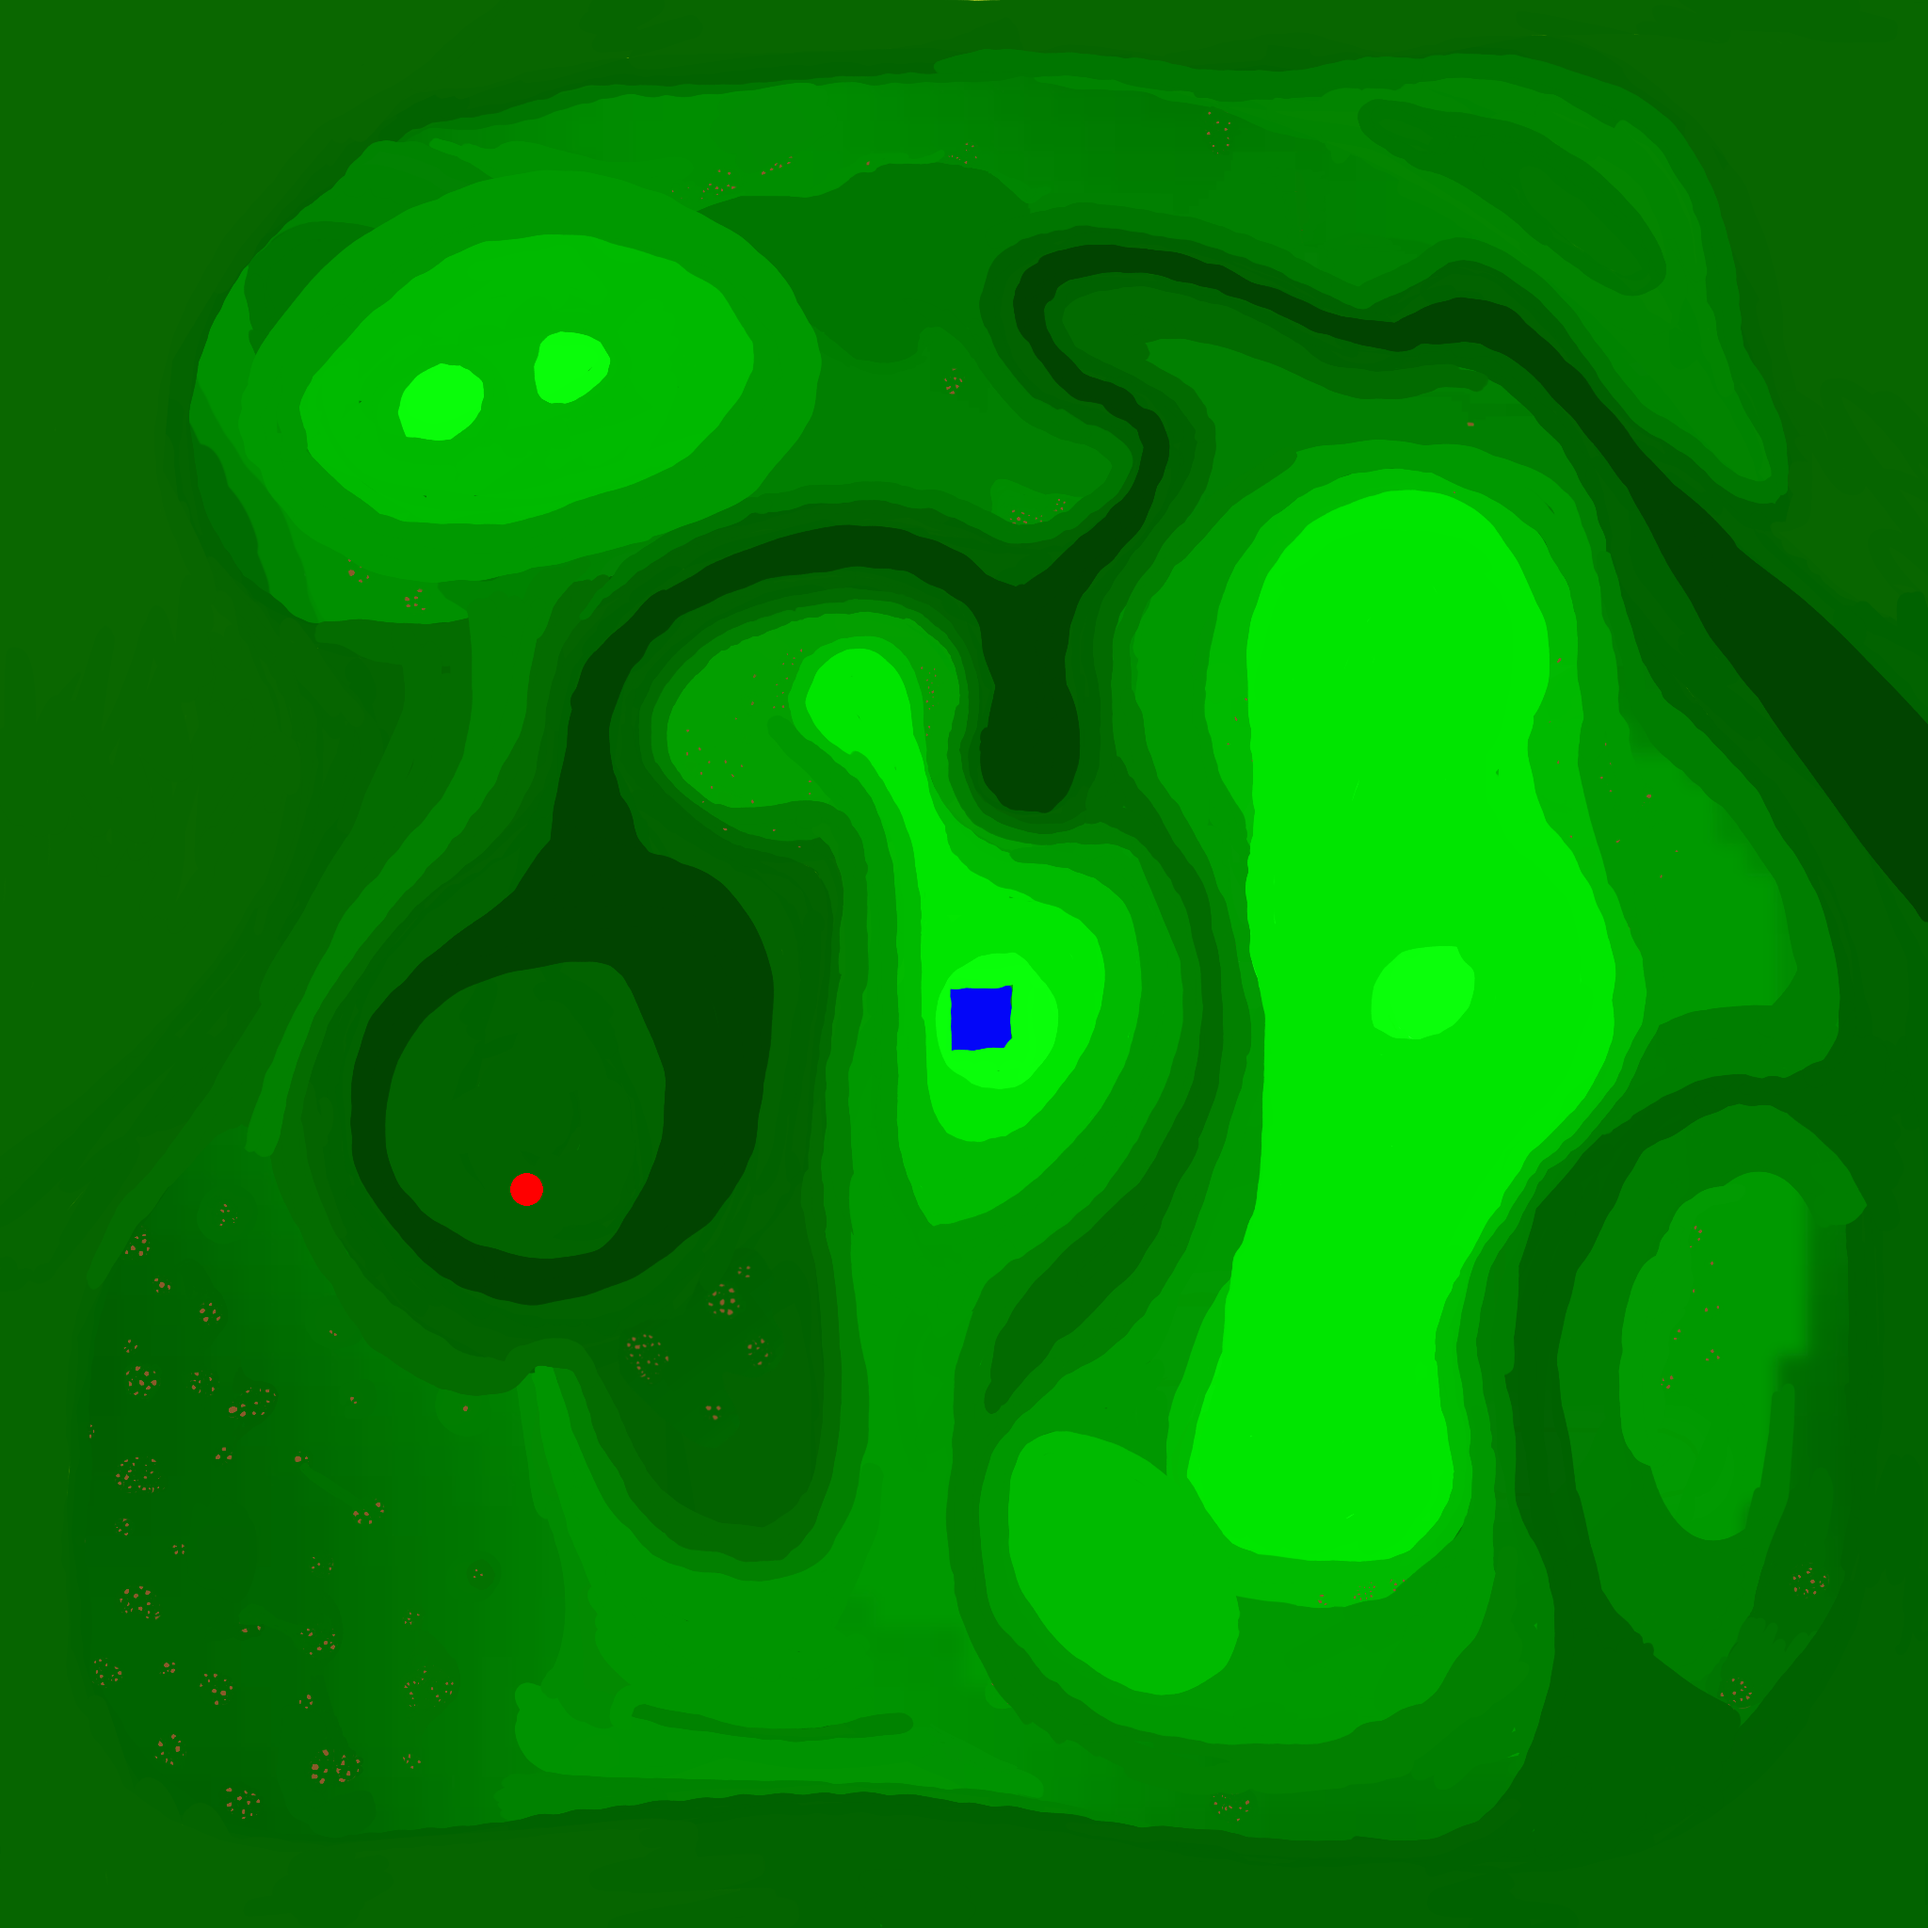
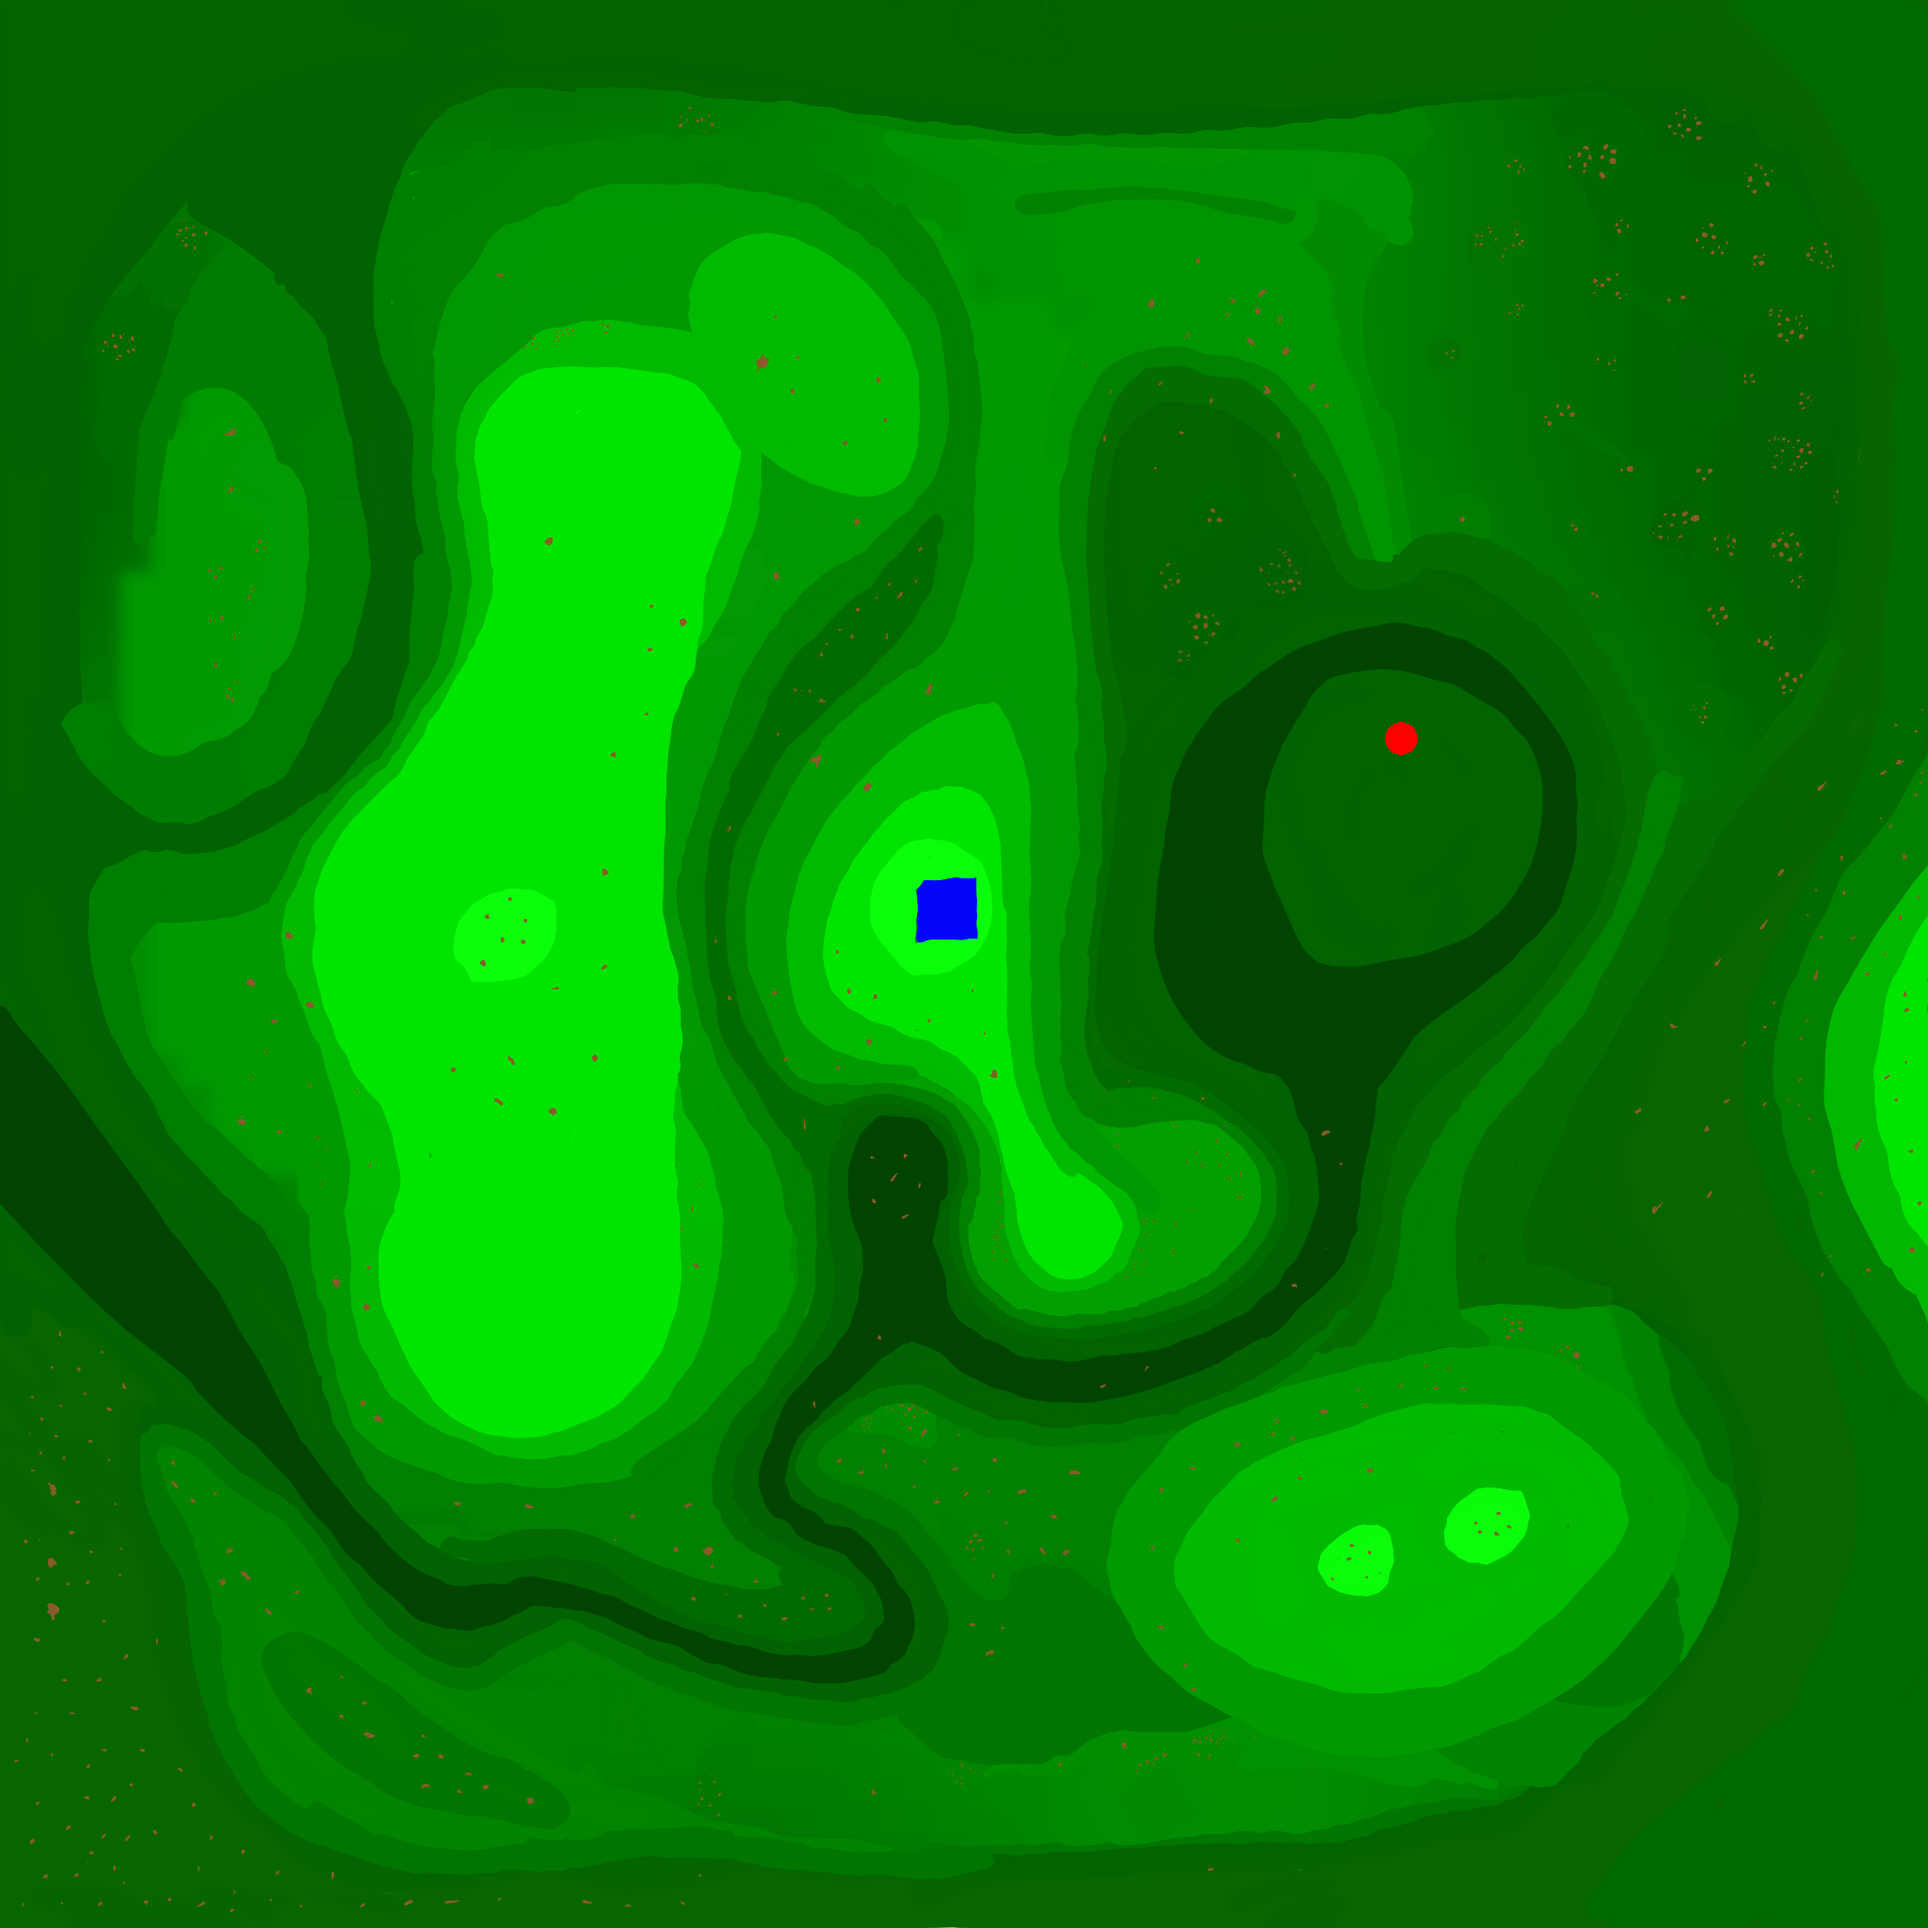
Added taller mountains, smoothed mountain peaks and added more trees with better sprig performance.

diff --git a/index.html b/index.html
@@ -1454,7 +1454,9 @@
     ========================= */
     const CELL_M = 1.0;
     const BASE_MAX_HEIGHT = 140.0;
-    const HEIGHT_CURVE_POW = 0.85;
+    const HEIGHT_MULTIPLIER = 2.0; // all terrain elevations are globally doubled
+    const HEIGHT_CURVE_POW = 1.35; // lighter greens accelerate upward height gain
+    const HEIGHT_LIGHT_TAPER = 0.25; // soft-rolls off the brightest greens
 
     const PLAYER_SCALE = 25.0; // was 2.0 — hero is 10x smaller
     const BASE_EYE_HEIGHT = 1.7;
@@ -1484,6 +1486,7 @@
        HEIGHTFIELD SHAPE CONTROL (NO NEW GEOMETRY)
     ========================= */
     const TOP_FLAT_GN_THRESHOLD = 0.92; // tweak 0.88..0.96
+    const TOP_FLATTEN_STRENGTH = 0.0;   // 0 = rounded peaks, 1 = hard mesa flattening
     const SLOPE_PASSES = 16;            // 10..24
 
     /* =========================
@@ -2339,8 +2342,9 @@ const h = new Float32Array(mapW * mapH);
 
           if (isGreenish(r, g, b)) {
             const gn = (g - minLandG) / Math.max(1, (255 - minLandG));
-            const t = Math.pow(THREE.MathUtils.clamp(gn, 0, 1), HEIGHT_CURVE_POW);
-            h[i] = t * BASE_MAX_HEIGHT;
+            const tRaw = Math.pow(THREE.MathUtils.clamp(gn, 0, 1), HEIGHT_CURVE_POW);
+            const t = tRaw * (1.0 - HEIGHT_LIGHT_TAPER * tRaw);
+            h[i] = t * BASE_MAX_HEIGHT * HEIGHT_MULTIPLIER;
 
             if (gn >= TOP_FLAT_GN_THRESHOLD) topMask[i] = 1;
           } else {
@@ -2380,14 +2384,15 @@ const h = new Float32Array(mapW * mapH);
         if (wmask[i]) continue;
         if (topMask[i]) topH = Math.max(topH, sm[i]);
       }
-      if (topH > -Infinity) {
+      if (topH > -Infinity && TOP_FLATTEN_STRENGTH > 0) {
         for (let i = 0; i < sm.length; i++) {
           if (wmask[i]) continue;
-          if (topMask[i]) sm[i] = topH;
+          if (topMask[i]) sm[i] = THREE.MathUtils.lerp(sm[i], topH, TOP_FLATTEN_STRENGTH);
         }
       }
 
-      sm = smoothHeightsLandOnlyLocked(sm, wmask, topMask, SLOPE_PASSES);
+      const slopeLockMask = (TOP_FLATTEN_STRENGTH > 0) ? topMask : new Uint8Array(topMask.length);
+      sm = smoothHeightsLandOnlyLocked(sm, wmask, slopeLockMask, SLOPE_PASSES);
 
       let maxH = 0;
       for (let i = 0; i < sm.length; i++) {
@@ -2720,8 +2725,13 @@ const h = new Float32Array(mapW * mapH);
     const FIR_BRANCH_SEGMENTS = 6;
     const FIR_HIDE_BRANCHES = false;
     const FIR_BRANCH_LENGTH_SCALE = 2 / 3;
+    const FIR_BRANCH_LENGTH_RANDOM_TRUNK_PCT = 0.10;
     const FIR_TOP_SHORT_START = 0.93;
     const FIR_TOP_SHORT_END_SCALE = 0.0875;
+    const FIR_TOPMOST_BRANCH_START = 0.90;
+    const FIR_TOPMOST_BRANCH_DOWN_DEG = 15;
+    const FIR_TOPMOST_BRANCH_DOWN_RAD = THREE.MathUtils.degToRad(FIR_TOPMOST_BRANCH_DOWN_DEG);
+    const FIR_TOPMOST_BRANCH_LENGTH_SCALE = 2 / 3;
     const FIR_TOP_UP_DEG = 40;
     const FIR_TOP_UP_RAD = THREE.MathUtils.degToRad(FIR_TOP_UP_DEG);
     const FIR_LOWER_BRANCH_FRACTION = 1 / 3;
@@ -2757,6 +2767,7 @@ const h = new Float32Array(mapW * mapH);
     let treeBranchSprigInstancesMesh = null;
     let treeBranchSprigTemplateGeometry = null;
     let treeBranchSprigTemplateMaterial = null;
+    let treeBranchSprigTexture = null;
     let treeBranchSprigLocalMatrices = null;
 
     function getBranchPoint(start, dir, gravity, length, sag, t) {
@@ -2776,7 +2787,14 @@ const h = new Float32Array(mapW * mapH);
     }
 
     function setFirBranchDirection(out, angle, t) {
-      if (t >= FIR_TOP_SHORT_START) {
+      if (t >= FIR_TOPMOST_BRANCH_START) {
+        const horizontal = Math.cos(FIR_TOPMOST_BRANCH_DOWN_RAD);
+        out.set(
+          Math.cos(angle) * horizontal,
+          -Math.sin(FIR_TOPMOST_BRANCH_DOWN_RAD),
+          Math.sin(angle) * horizontal
+        );
+      } else if (t >= FIR_TOP_SHORT_START) {
         const horizontal = Math.cos(FIR_TOP_UP_RAD);
         out.set(
           Math.cos(angle) * horizontal,
@@ -2810,11 +2828,24 @@ const h = new Float32Array(mapW * mapH);
 
     function getFirBranchLengthAt(t) {
       let length = 16.0 * (1 - t * 0.6) * FIR_BRANCH_LENGTH_SCALE;
+      if (t >= FIR_TOPMOST_BRANCH_START) {
+        length *= FIR_TOPMOST_BRANCH_LENGTH_SCALE;
+      }
       if (t >= FIR_TOP_SHORT_START) {
         const u = THREE.MathUtils.clamp((t - FIR_TOP_SHORT_START) / (1.0 - FIR_TOP_SHORT_START), 0, 1);
         length *= THREE.MathUtils.lerp(1.0, FIR_TOP_SHORT_END_SCALE, u);
       }
       return length;
+    }
+
+    function getFirBranchCount(rand) {
+      // Original branch count was 2-3; this keeps random distribution but doubles average to 4-6.
+      return 4 + Math.floor(rand() * 3);
+    }
+
+    function getFirBranchLengthMul(rand) {
+      // Randomly shorten each branch by up to ~10% toward the trunk.
+      return THREE.MathUtils.lerp(1.0 - FIR_BRANCH_LENGTH_RANDOM_TRUNK_PCT, 1.0, rand());
     }
 
     function buildDouglasFirTemplateGeometry() {
@@ -2850,14 +2881,15 @@ const h = new Float32Array(mapW * mapH);
         const t = i / FIR_WHORLS;
         const yBase = FIR_HEIGHT * (FIR_BRANCH_START + (1 - FIR_BRANCH_START) * t) - (FIR_HEIGHT * 0.5);
 
-        const length = getFirBranchLengthAt(t);
+        const lengthBase = getFirBranchLengthAt(t);
 
         const sag = 0.20 * Math.pow(1 - t, 0.9);
         const thickness = 0.12 * Math.pow(1 - t, 0.8);
-        const count = 2 + Math.floor(rng() * 2);
+        const count = getFirBranchCount(rng);
         const phase = rng() * Math.PI * 2.0;
 
         for (let j = 0; j < count; j++) {
+          const length = lengthBase * getFirBranchLengthMul(rng);
           const angle = phase + (j / count) * Math.PI * 2.0 + THREE.MathUtils.lerp(-0.1, 0.1, rng());
           setFirBranchDirection(dir, angle, t);
 
@@ -2920,13 +2952,14 @@ const h = new Float32Array(mapW * mapH);
         const t = i / FIR_WHORLS;
         const yBase = FIR_HEIGHT * (FIR_BRANCH_START + (1 - FIR_BRANCH_START) * t) - (FIR_HEIGHT * 0.5);
 
-        const length = getFirBranchLengthAt(t);
+        const lengthBase = getFirBranchLengthAt(t);
 
         const sag = 0.20 * Math.pow(1 - t, 0.9);
-        const count = 2 + Math.floor(rngBranch() * 2);
+        const count = getFirBranchCount(rngBranch);
         const phase = rngBranch() * Math.PI * 2.0;
 
         for (let j = 0; j < count; j++) {
+          const length = lengthBase * getFirBranchLengthMul(rngBranch);
           const angle = phase + (j / count) * Math.PI * 2.0 + THREE.MathUtils.lerp(-0.1, 0.1, rngBranch());
           setFirBranchDirection(dir, angle, t);
 
@@ -3014,6 +3047,15 @@ const h = new Float32Array(mapW * mapH);
         levelRoot.remove(treeBranchSprigInstancesMesh);
         treeBranchSprigInstancesMesh = null;
       }
+    }
+
+    function getTreeBranchSprigTexture() {
+      if (treeBranchSprigTexture) return treeBranchSprigTexture;
+      treeBranchSprigTexture = new THREE.TextureLoader().load(
+        window.__mfMemAssets?.getObjectUrl(FIR_BRANCH_SPRIG_URL) || FIR_BRANCH_SPRIG_URL
+      );
+      treeBranchSprigTexture.colorSpace = THREE.SRGBColorSpace;
+      return treeBranchSprigTexture;
     }
 
     function collectTreeBlobsFromBitmap(data) {
@@ -3143,10 +3185,8 @@ const h = new Float32Array(mapW * mapH);
         treeBranchSprigTemplateGeometry.translate(0, FIR_BRANCH_SPRIG_TOP_INTERSECT_PORTION - 0.5, 0);
       }
       if (!treeBranchSprigTemplateMaterial) {
-        const sprigTexture = new THREE.TextureLoader().load(window.__mfMemAssets?.getObjectUrl(FIR_BRANCH_SPRIG_URL) || FIR_BRANCH_SPRIG_URL);
-        sprigTexture.colorSpace = THREE.SRGBColorSpace;
         treeBranchSprigTemplateMaterial = new THREE.MeshBasicMaterial({
-          map: sprigTexture,
+          map: getTreeBranchSprigTexture(),
           transparent: true,
           alphaTest: 0.3,
           side: THREE.DoubleSide,
@@ -3956,24 +3996,26 @@ const h = new Float32Array(mapW * mapH);
       const ctx = c.getContext('2d', { willReadFrequently: true });
       ctx.drawImage(bmp, 0, 0);
       const data = ctx.getImageData(0, 0, mapW, mapH).data;
+      const dataOriginal = new Uint8ClampedArray(data);
+      const dataForHeights = new Uint8ClampedArray(data);
 
-      // Read explicit map markers before height derivation mutates pixel channels.
-      const sp = findPlayerSpawn(data);
-      const frSpawn = findFusionReactorSpawn(data);
+      // Marker/object extraction should use original pixels; height derivation mutates channels.
+      const sp = findPlayerSpawn(dataOriginal);
+      const frSpawn = findFusionReactorSpawn(dataOriginal);
 
-      const derived = deriveHeightsAndWater(data);
+      const derived = deriveHeightsAndWater(dataForHeights);
       heights = derived.heights;
       waterMask = derived.waterMask;
 
       buildTerrainMesh();
       buildWorldSeaPlane();
 
-      const blobs = collectTreeBlobsFromBitmap(data);
+      const blobs = collectTreeBlobsFromBitmap(dataOriginal);
       buildTreeInstancesFromBlobs(blobs);
 
-      buildBuildingPerimeterFromBitmap(data);
+      buildBuildingPerimeterFromBitmap(dataOriginal);
 
-      const bridgeBand = collectBridgeBandFromBitmap(data);
+      const bridgeBand = collectBridgeBandFromBitmap(dataOriginal);
       buildBridgePrism(bridgeBand);
 
       rebuildColliderGrid();
